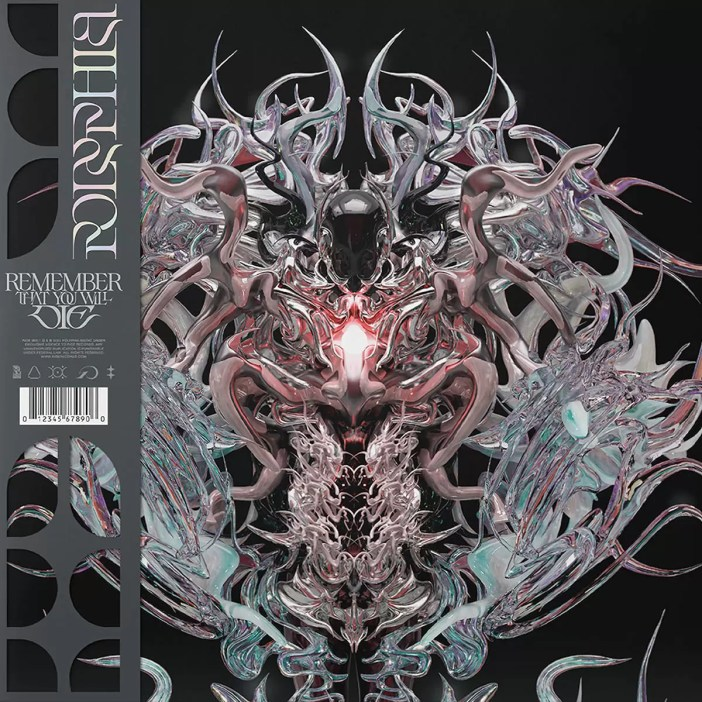
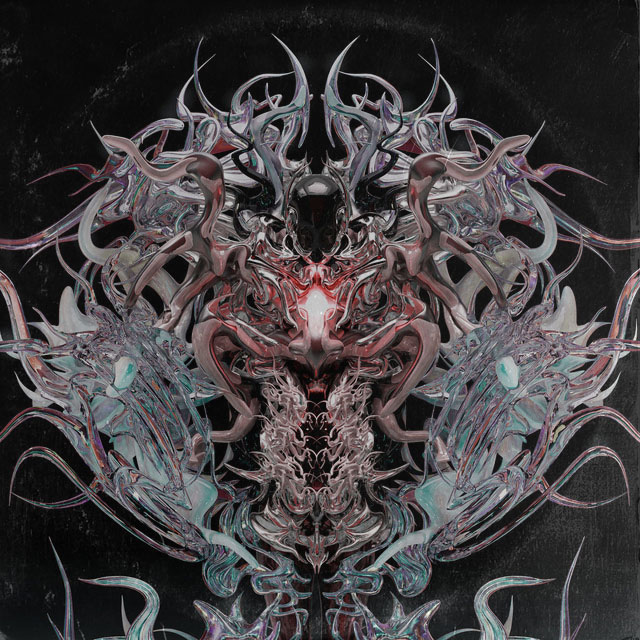
capa com efeito

diff --git a/style.css b/style.css
@@ -33,6 +33,11 @@ body {
 	max-height: 75%;
 	max-width: 75vh;
 }
+#cover::before {
+    height: 100%;
+    width: 100%;
+    background-color: black;
+}
 #cover {
 	position: absolute;
 	top: 0;
